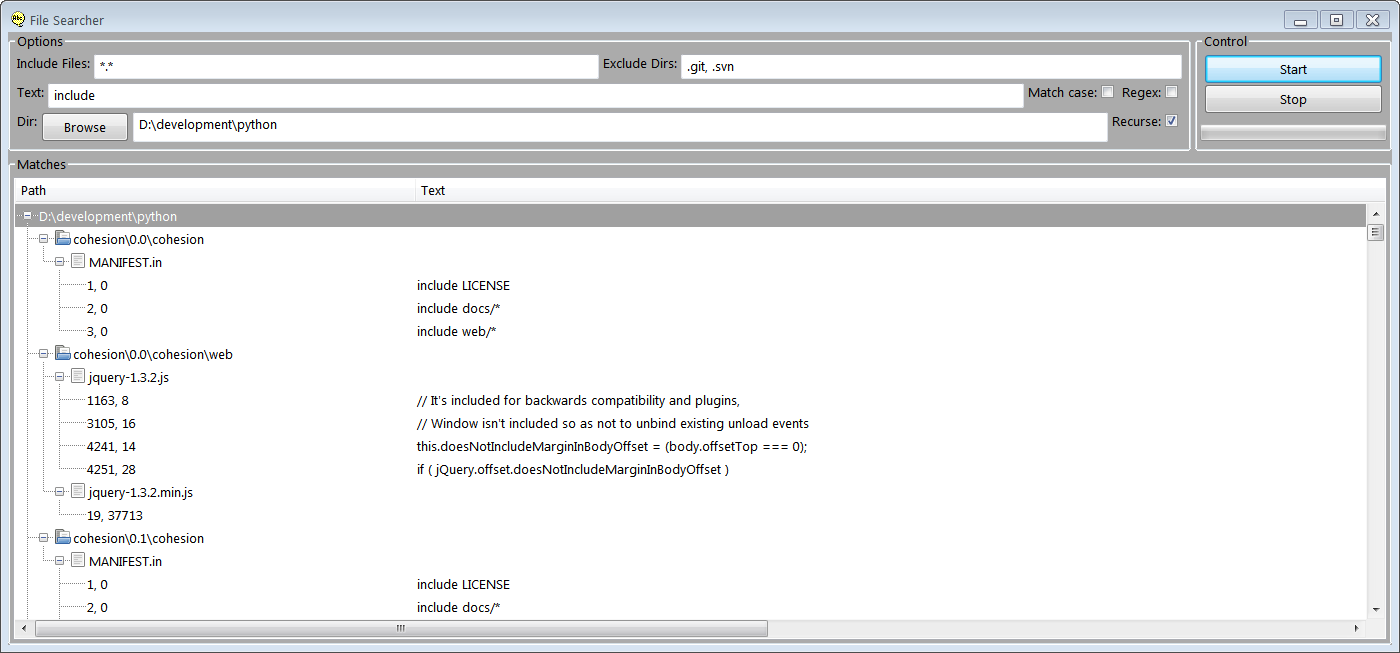
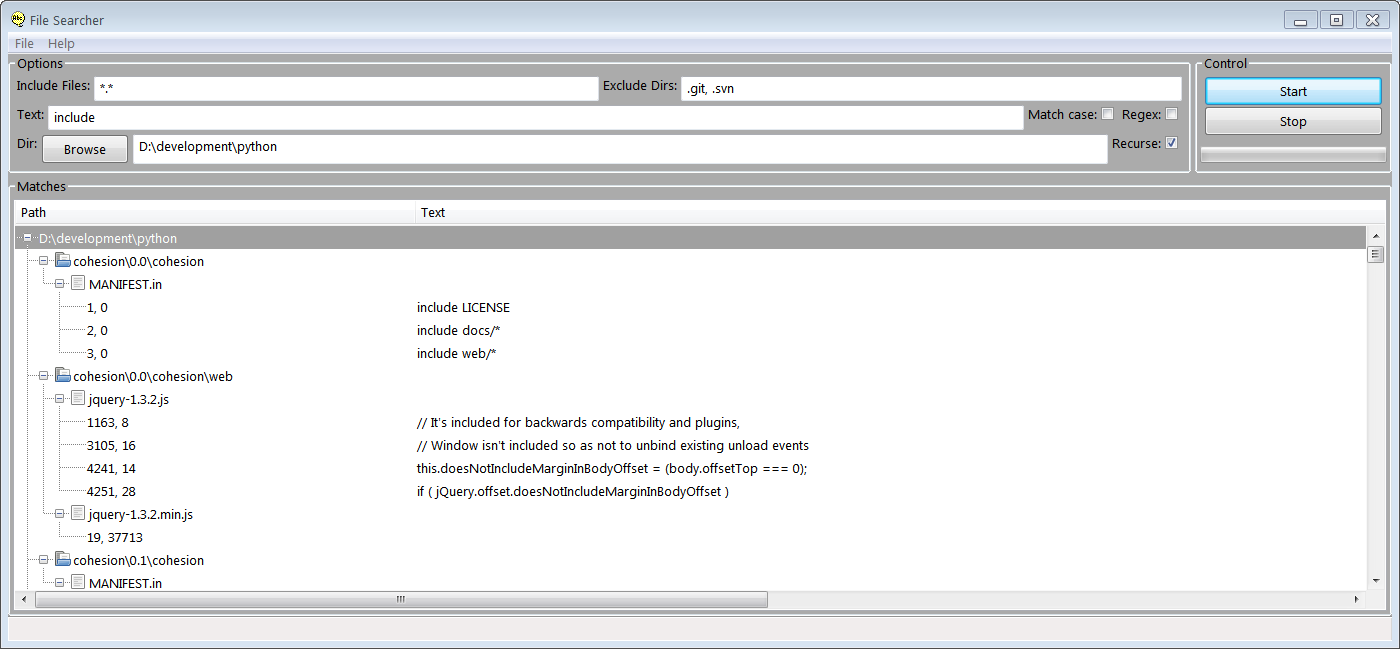
Added menu & status bars.

diff --git a/README.md b/README.md
@@ -31,10 +31,10 @@ It is organized into sections by operating system, and entries can be customized
 
 ## To Do
 - Accept command-line argument for initial path
+- Match for filename only
 - Keyboard accellerators 
 - Better icon
 - Context menu copy path action
-- Main menu
 - Status bar
 
 ## History
